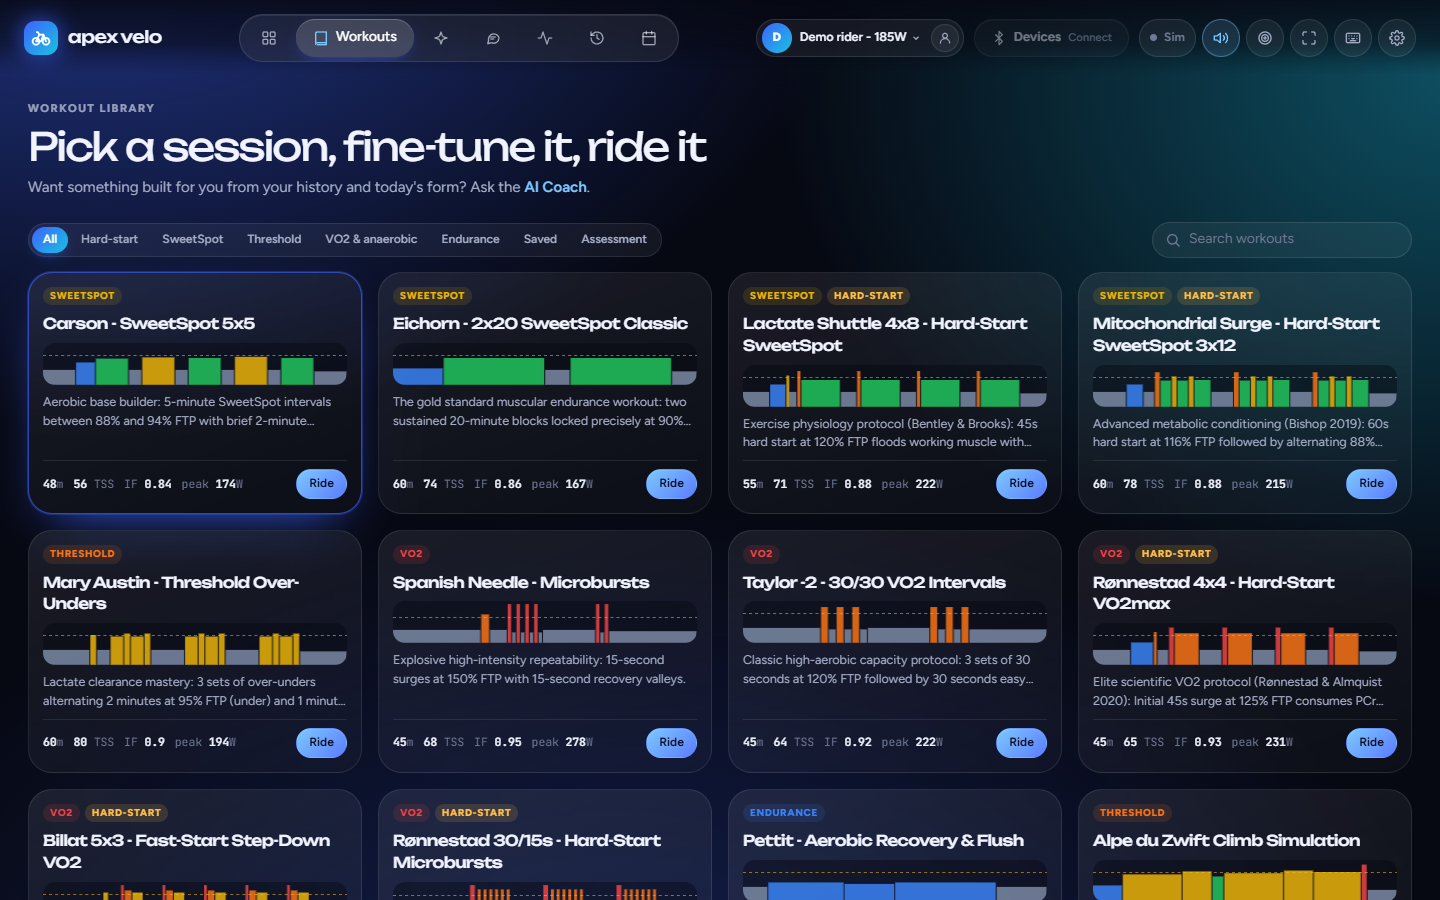
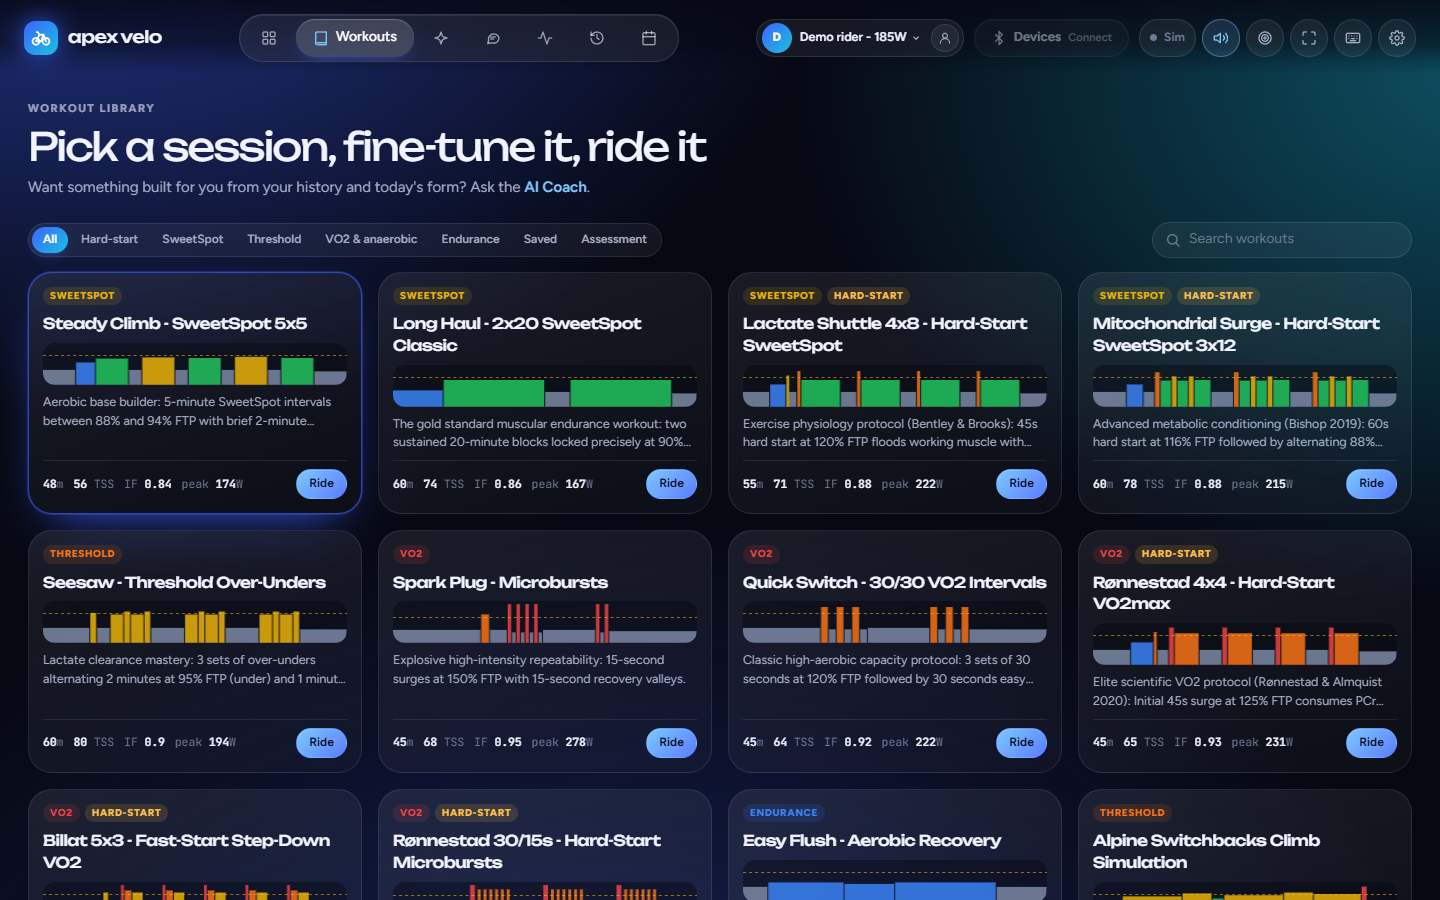
Rename workouts that shared TrainerRoad/Zwift names; add live cockpit screenshots
Visible titles only; workout ids are kept so saved favourites and plans still resolve.
Cockpit shots show a simulated ride in the synthetic demo on desktop and phone,
plus the phone remote view.

diff --git a/js/velo-workouts.js b/js/velo-workouts.js
@@ -2,7 +2,7 @@
       {
         id: 'carson',
         category: 'sweetspot',
-        title: 'Carson - SweetSpot 5x5',
+        title: 'Steady Climb - SweetSpot 5x5',
         desc: 'Aerobic base builder: 5-minute SweetSpot intervals between 88% and 94% FTP with brief 2-minute recoveries.',
         durationMin: 48,
         tss: 56,
@@ -25,7 +25,7 @@
       {
         id: 'eichorn',
         category: 'sweetspot',
-        title: 'Eichorn - 2x20 SweetSpot Classic',
+        title: 'Long Haul - 2x20 SweetSpot Classic',
         desc: 'The gold standard muscular endurance workout: two sustained 20-minute blocks locked precisely at 90% FTP.',
         durationMin: 60,
         tss: 74,
@@ -103,7 +103,7 @@
       {
         id: 'mary_austin',
         category: 'threshold',
-        title: 'Mary Austin - Threshold Over-Unders',
+        title: 'Seesaw - Threshold Over-Unders',
         desc: 'Lactate clearance mastery: 3 sets of over-unders alternating 2 minutes at 95% FTP (under) and 1 minute at 105% FTP (over).',
         durationMin: 60,
         tss: 80,
@@ -132,7 +132,7 @@
       {
         id: 'spanish',
         category: 'vo2',
-        title: 'Spanish Needle - Microbursts',
+        title: 'Spark Plug - Microbursts',
         desc: 'Explosive high-intensity repeatability: 15-second surges at 150% FTP with 15-second recovery valleys.',
         durationMin: 45,
         tss: 68,
@@ -159,7 +159,7 @@
       {
         id: 'taylor',
         category: 'vo2',
-        title: 'Taylor -2 - 30/30 VO2 Intervals',
+        title: 'Quick Switch - 30/30 VO2 Intervals',
         desc: 'Classic high-aerobic capacity protocol: 3 sets of 30 seconds at 120% FTP followed by 30 seconds easy spinning.',
         durationMin: 45,
         tss: 64,
@@ -287,7 +287,7 @@
       {
         id: 'pettit',
         category: 'endurance',
-        title: 'Pettit - Aerobic Recovery & Flush',
+        title: 'Easy Flush - Aerobic Recovery',
         desc: 'Low-stress aerobic maintenance: constant steady-state spinning between 55% and 65% FTP.',
         durationMin: 60,
         tss: 39,
@@ -303,7 +303,7 @@
       {
         id: 'alpe',
         category: 'threshold',
-        title: 'Alpe du Zwift Climb Simulation',
+        title: 'Alpine Switchbacks Climb Simulation',
         desc: 'Progressive alpine climb testing muscular endurance at 95% to 105% FTP.',
         durationMin: 60,
         tss: 82,

diff --git a/test_suite.html b/test_suite.html
@@ -538,7 +538,7 @@
           const cadDecoupledOk = (cadInErg === cadInNonErg) && (cadInErg > 0);
 
           // C. Cockpit HUD Tag & Metric Compliance Feedback
-          app.intervalIndex = 2; // SweetSpot 1 in Carson (88% FTP -> 92 RPM)
+          app.intervalIndex = 2; // SweetSpot 1 in Steady Climb (88% FTP -> 92 RPM)
           app.updateHudTitles();
           const hudCadTag = frame.contentDocument.getElementById('hudCadenceTargetTag');
           const hasHudTag = hudCadTag && hudCadTag.textContent.includes('92 RPM Target');

diff --git a/README.md b/README.md
@@ -8,8 +8,16 @@ No account, no cloud service, no subscription. Your rides stay in your browser a
 
 *All screenshots use the built-in synthetic demo (**Explore a demo**), not real rider data.*
 
-**Cockpit** - ride structured ERG workouts with live power, heart rate, cadence and W' balance
-![Cockpit](docs/images/cockpit.png)
+**Cockpit (desktop)** - a structured ERG workout mid-ride: live power, heart rate, cadence, targets and ride totals
+![Cockpit on desktop](docs/images/cockpit.png)
+
+**Phone** - the cockpit on a phone-sized screen, and the phone remote (`live.html`) that follows and controls the ride from another room
+
+<p>
+  <img src="docs/images/cockpit-phone.png" alt="Cockpit on a phone" width="300">
+  &nbsp;
+  <img src="docs/images/phone-remote.png" alt="Phone remote view" width="300">
+</p>
 
 **Workout library** - SweetSpot, threshold, VO2 and endurance sessions with interval profiles
 ![Workout library](docs/images/workouts.png)
